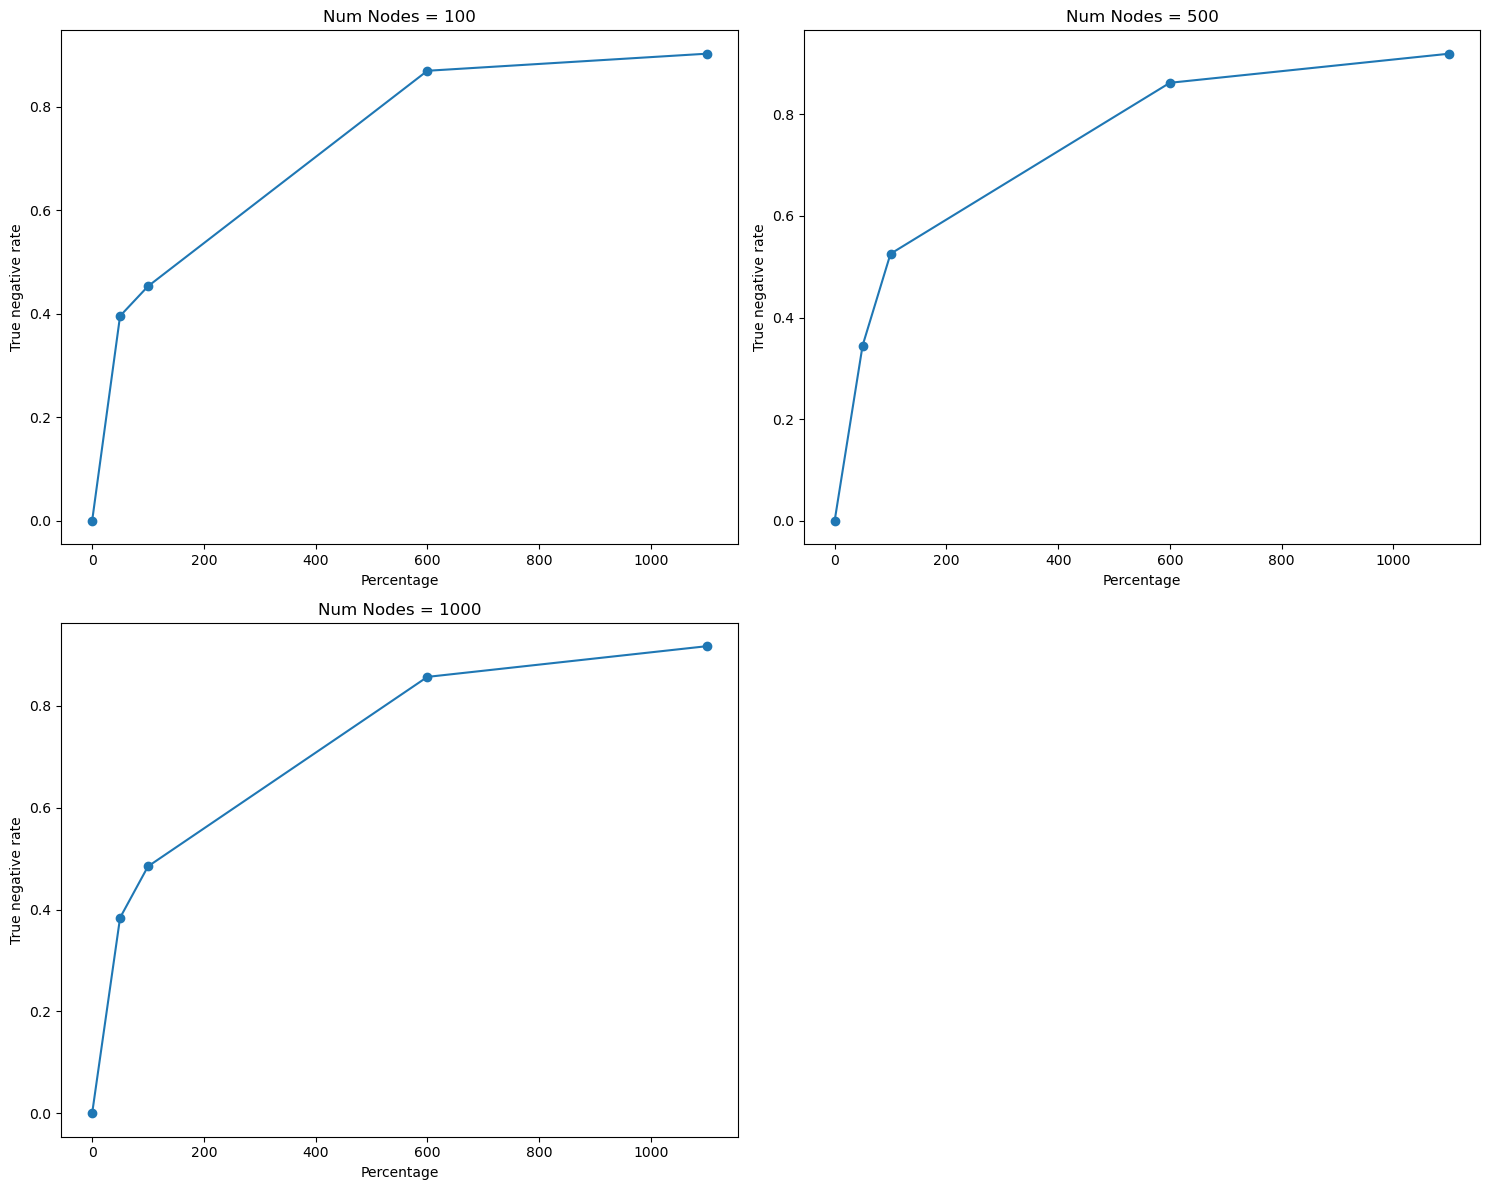
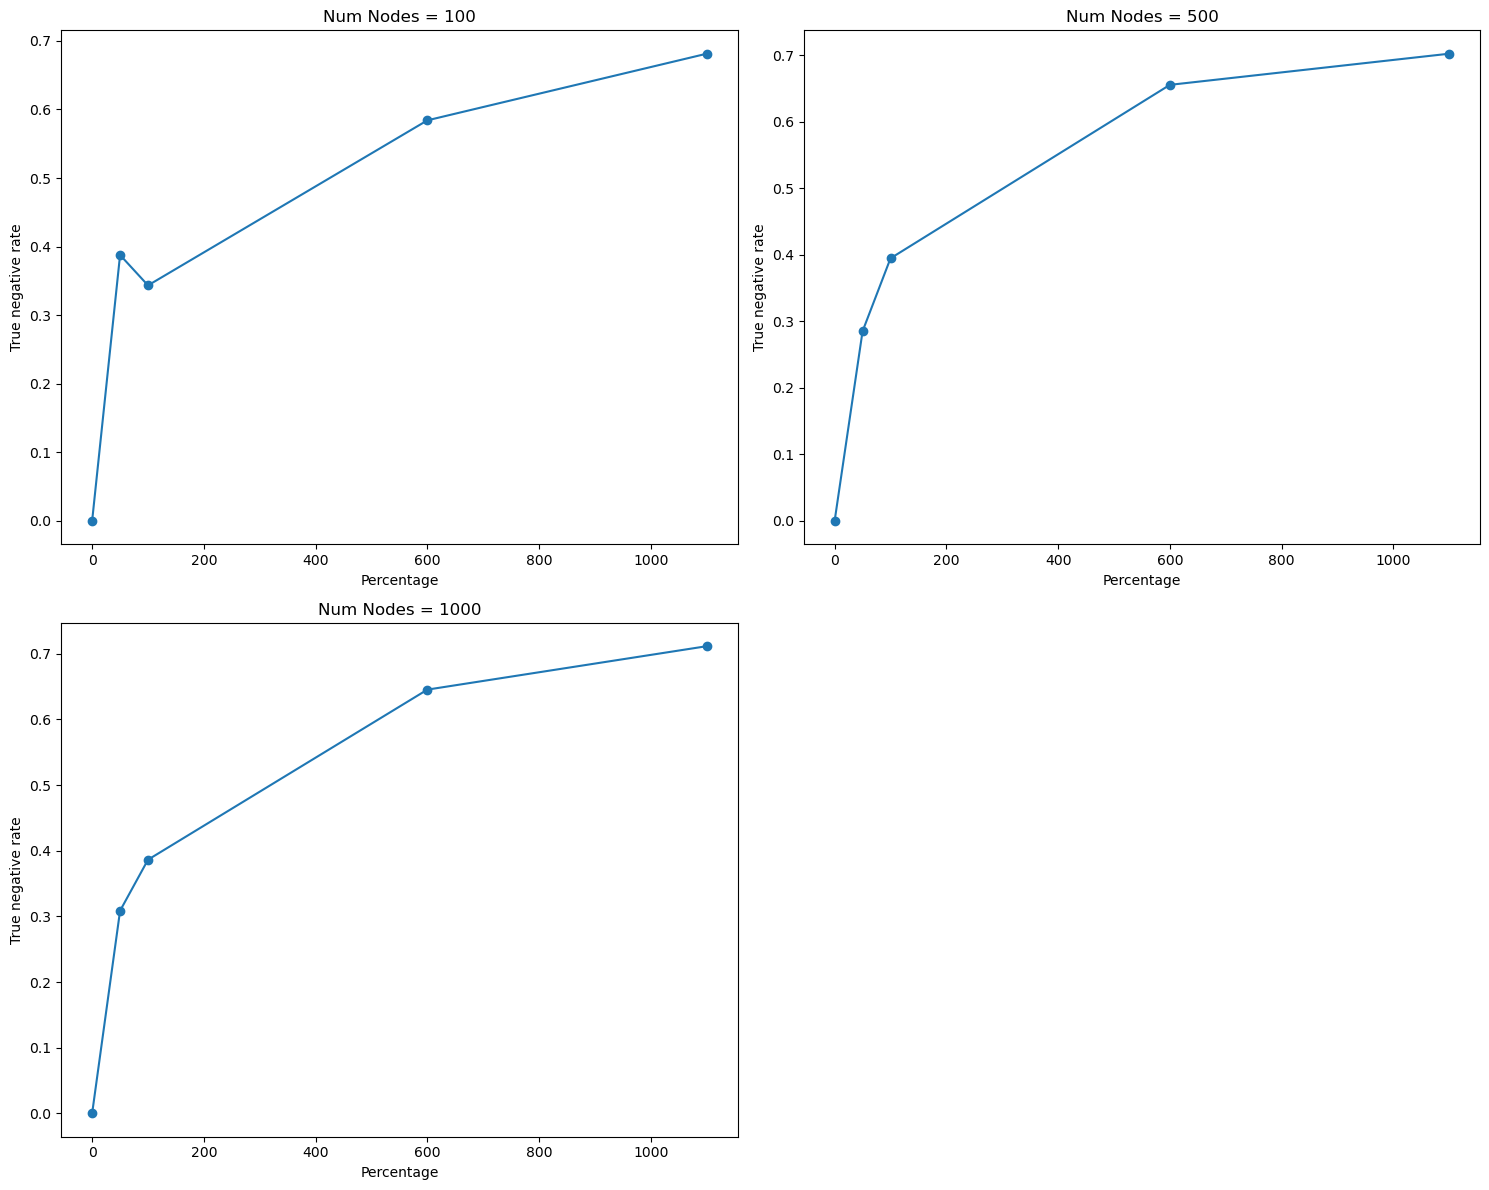
t

diff --git a/alg_1/compare_graphs.py b/alg_1/compare_graphs.py
@@ -32,15 +32,16 @@ def compute_statistics(G: nx.Graph, H: nx.Graph):
 
     accuracy = (TP + TN) / (TP + FP + FN + TN) if (TP + FP + FN + TN) > 0 else 0
     precision = TP / (TP + FP) if (TP + FP) > 0 else 0
+    NPV = TN / (TN + FN) if (TN + FN) > 0 else 0
     recall = TP / (TP + FN) if (TP + FN) > 0 else 0
-    TNR = TN / (TN + FN) if (TN + FN) > 0 else 0
+    TNR = TN / (TN + FP) if (TN + FP) > 0 else 0
     f1_score = (
         2 * (precision * recall) / (precision + recall)
         if (precision + recall) > 0
         else 0
     )
 
-    return TP, FP, FN, TN, accuracy, precision, recall, TNR, f1_score
+    return TP, FP, FN, TN, accuracy, precision, NPV, recall, TNR, f1_score
 
 
 def compare_graphs(G_filepath, H_filepath, output_csv):
@@ -58,6 +59,7 @@ def compare_graphs(G_filepath, H_filepath, output_csv):
         TN,
         accuracy,
         precision,
+        NPV,
         recall,
         TNR,
         f1_score,
@@ -81,6 +83,7 @@ def compare_graphs(G_filepath, H_filepath, output_csv):
         "TN": TN,
         "Accuracy": round(accuracy, 4),
         "Precision": round(precision, 4),
+        "Negative predictive value": NPV,
         "Recall": round(recall, 4),
         "True negative rate": TNR,
         "F1-Score": round(f1_score, 4),
